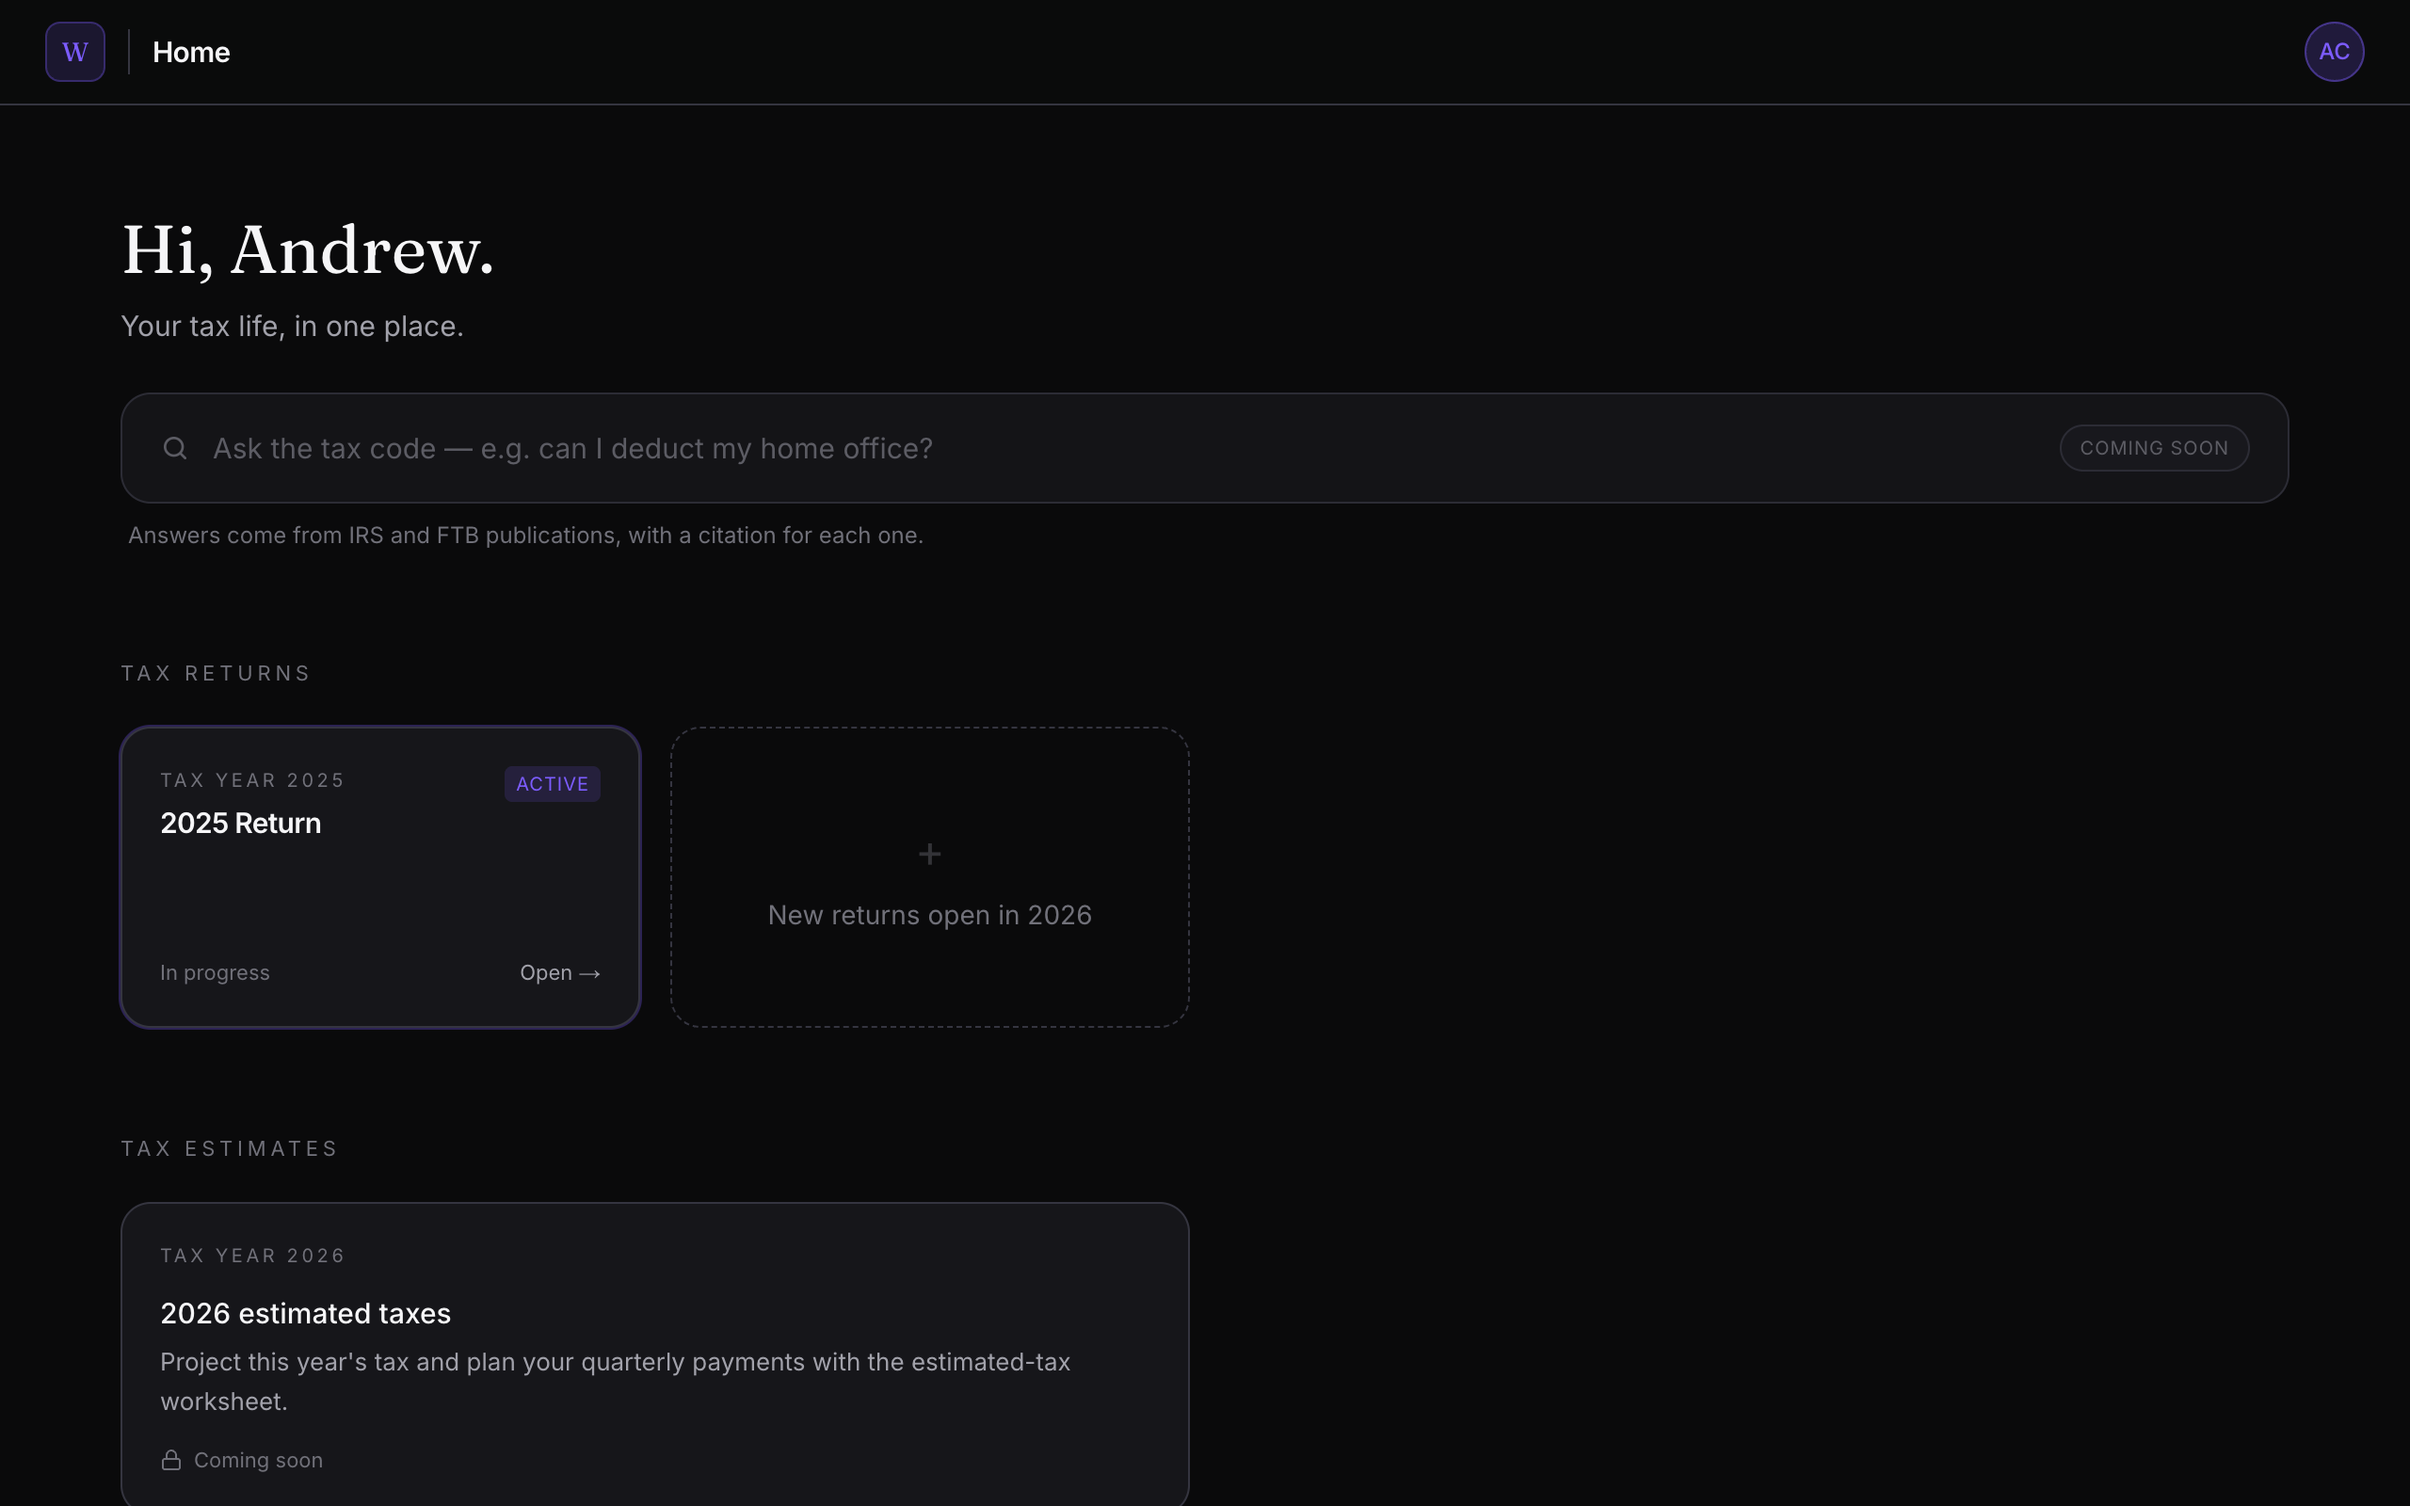
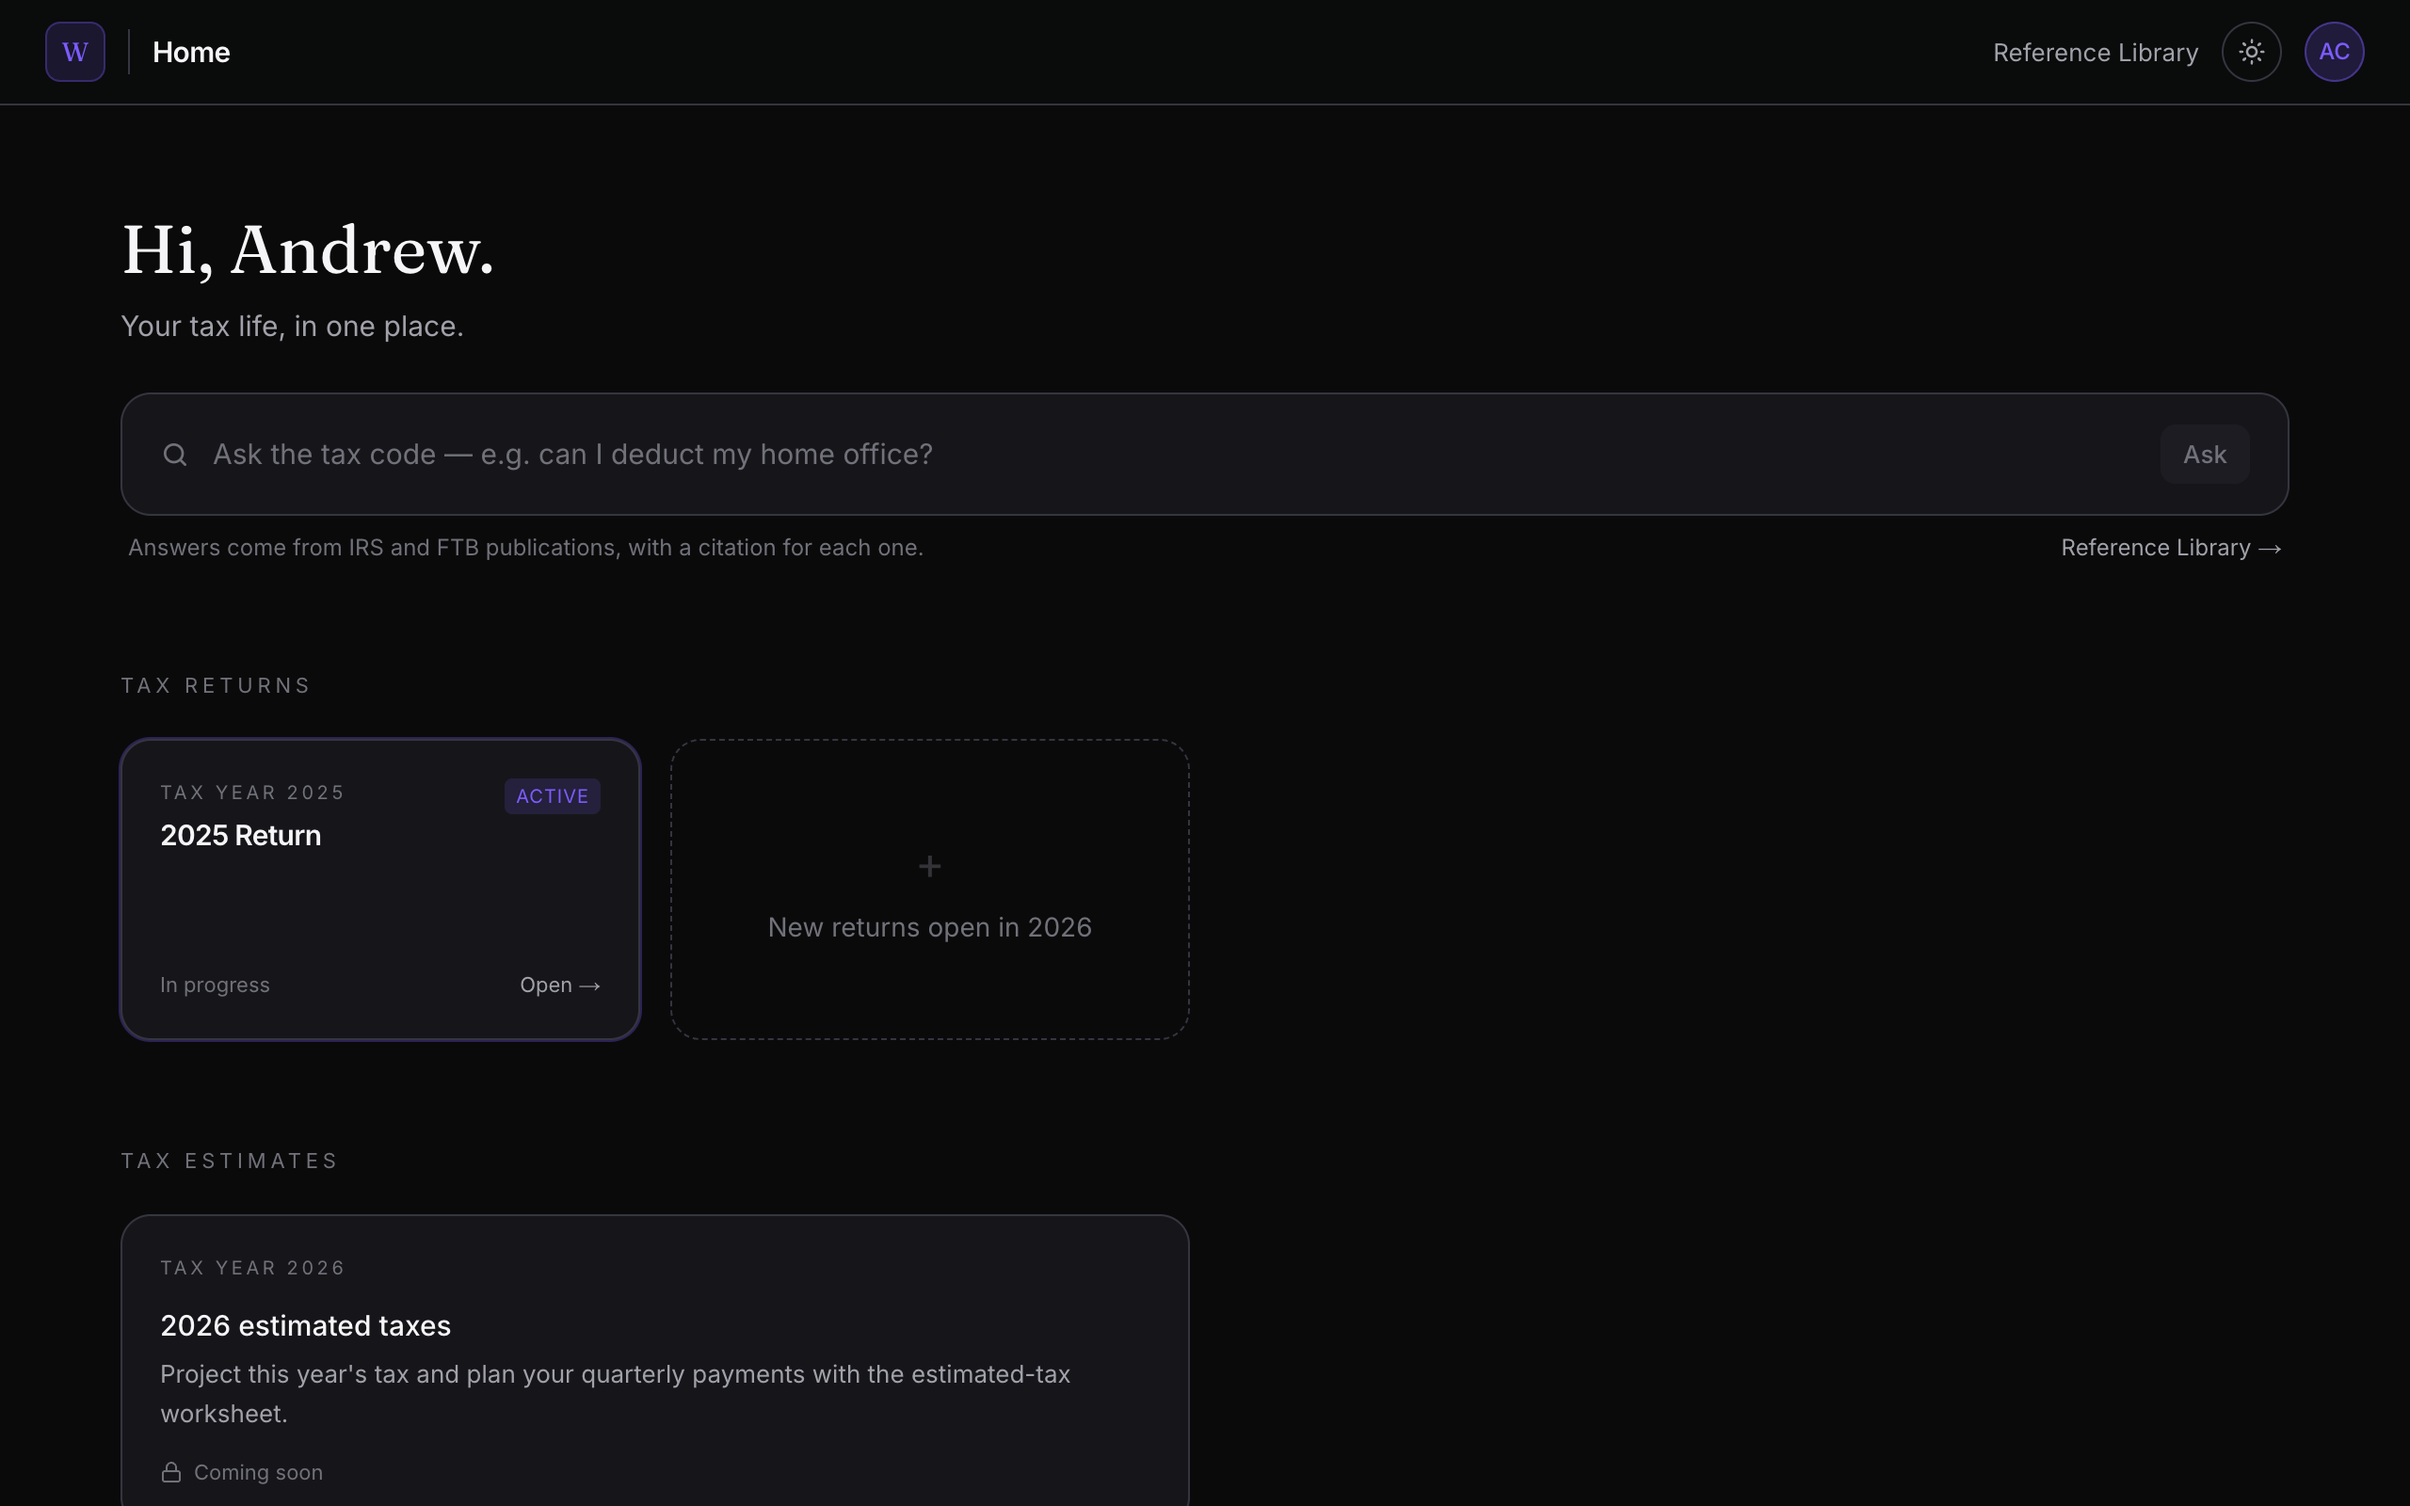
docs: light-theme screenshot; retake home and return screenshots with the theme switch

diff --git a/README.md b/README.md
@@ -53,6 +53,10 @@ A 2025 return: chat with Luca on the left; activity, requested actions, and the 
 
 <img src="static/screenshots/return-2025.png" alt="The 2025 return workspace: Luca's chat summary of the drafted return on the left, and the Activity, Requested actions, and Tax forms sections on the right" width="880">
 
+The same page in the light theme. Summa follows your system setting; the sun/moon button in the top bar switches it.
+
+<img src="static/screenshots/return-2025-light.png" alt="The 2025 return workspace in the light theme, with the theme switch next to the avatar in the top bar" width="880">
+
 Ask The Tax Code: a question from the home page gets a short answer with numbered citations into the IRS and FTB instructions; each card quotes the passage and opens the source PDF on its page.
 
 <img src="static/screenshots/ask-tax-code.png" alt="Ask The Tax Code page: the question 'How much can I contribute to my HSA in 2025?', an answer giving the $4,300 self-only and $8,550 family limits with citation markers, a reference card quoting the Form 8889 instructions with an Open PDF link, and the Follow up / Ask a different question composer at the bottom" width="880">
